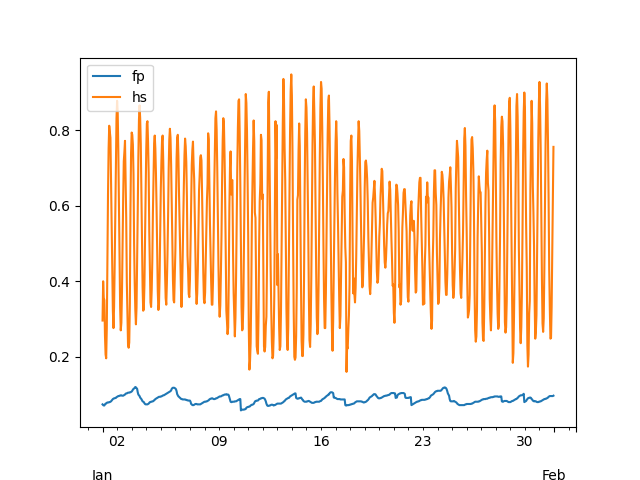
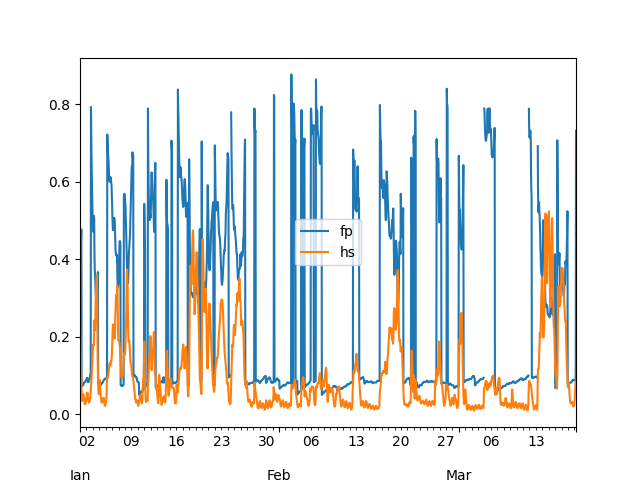
add doctest for README

diff --git a/README.md b/README.md
@@ -87,43 +87,48 @@ See the following example:
 >>> import resourcecode
 >>> client = resourcecode.Client()
 >>> data = client.get_dataframe_from_criteria(
-"""
-{
-    "node": 42,
-    "start": 1483228400,
-    "end": 1489903600,
-    "parameter": ["fp", "hs"]
-}
-""")
+...    """
+...    {
+...        "node": 42,
+...        "start": 1483228400,
+...        "end": 1489903600,
+...        "parameter": ["fp", "hs"]
+...    }
+...    """)
+
 >>> data
                         fp     hs
-2017-01-01 00:00:00  0.074  0.296
-2017-01-01 01:00:00  0.072  0.400
-2017-01-01 02:00:00  0.071  0.356
-2017-01-01 03:00:00  0.071  0.350
-2017-01-01 04:00:00  0.074  0.256
+2017-01-01 00:00:00  0.412  0.246
+2017-01-01 01:00:00  0.410  0.212
+2017-01-01 02:00:00  0.414  0.172
+2017-01-01 03:00:00  0.437  0.138
+2017-01-01 04:00:00  0.464  0.102
 ...                    ...    ...
-2017-01-31 19:00:00  0.096  0.250
-2017-01-31 20:00:00  0.096  0.332
-2017-01-31 21:00:00  0.096  0.480
-2017-01-31 22:00:00  0.096  0.612
-2017-01-31 23:00:00  0.097  0.756
+2017-03-19 02:00:00  0.088  0.056
+2017-03-19 03:00:00  0.088  0.066
+2017-03-19 04:00:00  0.089  0.078
+2017-03-19 05:00:00  0.090  0.084
+2017-03-19 06:00:00  0.732  0.086
+<BLANKLINE>
+[1855 rows x 2 columns]
 
-[744 rows x 2 columns]
 >>> data.describe()
-               fp          hs
-count  744.000000  744.000000
-mean     0.088046    0.537551
-std      0.011400    0.192594
-min      0.058000    0.160000
-25%      0.081000    0.370000
-50%      0.087000    0.533000
-75%      0.095000    0.688500
-max      0.120000    0.948000
+                fp           hs
+count  1851.000000  1855.000000
+mean      0.260097     0.100231
+std       0.233866     0.100087
+min       0.050000     0.010000
+25%       0.081000     0.028000
+50%       0.091000     0.064000
+75%       0.463500     0.132000
+max       0.877000     0.524000
 
->>> # if you have malptolib installed, you can do the following
+>>> # if you have matplotlib installed, you can do the following
+>>> import pandas as pd
+>>> pd.options.plotting.backend = "matplotlib"
 >>> ax = data.plot()
 >>> ax.figure.savefig('fp_hs.png')
+
 ```
 
 which will generate the following plot:
